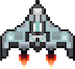
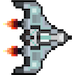
Added level display. Laser shield effect WIP

diff --git a/src/main/java/edu/uchicago/gerber/_08final/mvc/view/GamePanel.java b/src/main/java/edu/uchicago/gerber/_08final/mvc/view/GamePanel.java
@@ -86,26 +86,22 @@ public class GamePanel extends Panel {
 			grpOff.drawString(strDisplay,
 					(Game.DIM.width - fmt.stringWidth(strDisplay)) / 2, Game.DIM.height / 4);
 		}
-		
+
 		//playing and not paused!
 		else {
-
 			iterateMovables(grpOff,
 				CommandCenter.getInstance().getMovDebris(),
 				CommandCenter.getInstance().getMovFloaters(),
 				CommandCenter.getInstance().getMovFoes(),
 				CommandCenter.getInstance().getMovFriends());
 
-
+			drawLevel(grpOff);
 			drawNumberShipsLeft(grpOff);
-
-
 		}
 
 		//draw the double-Buffered Image to the graphics context of the panel
 		g.drawImage(imgOff, 0, 0, this);
 	} 
-
 
 	
 	//for each movable array, process it.
@@ -120,8 +116,14 @@ public class GamePanel extends Panel {
 		Arrays.stream(arrayOfListMovables)
 				.flatMap(Collection::stream)
 				.forEach(m -> moveDraw.accept(g, m));
+	}
 
-		
+
+	private void drawLevel(Graphics g) {
+		g.setColor(Color.white);
+		g.setFont(fnt);
+		g.drawString("LEVEL :  " + CommandCenter.getInstance().getLevel(),
+				fontWidth, Game.DIM.height - 40);
 	}
 
 
@@ -150,9 +152,6 @@ public class GamePanel extends Panel {
 							.toArray(),
 
 					falcon.getCartesians().length);
-
-
-
 	}
 	
 	private void initView() {

diff --git a/src/main/java/edu/uchicago/gerber/_08final/mvc/model/CommandCenter.java b/src/main/java/edu/uchicago/gerber/_08final/mvc/model/CommandCenter.java
@@ -25,6 +25,7 @@ public class CommandCenter {
 	private  boolean paused;
 
 	private BufferedImage ship;
+	private BufferedImage shield;
 	private BufferedImage explosion1;
 	private BufferedImage explosion2;
 	private BufferedImage explosion3;
@@ -55,17 +56,18 @@ public class CommandCenter {
 	}
 
 
-	public  void initGame(){
+	public void initGame(){
+		loadGraphics();
+
 		setLevel(1);
 		setScore(0);
 		setNumFalcons(4);
 		spawnFalcon();
-
-		loadGraphics();
 	}
 
 	private void loadGraphics() {
 		ship = loadGraphic("ship.png");
+		shield = loadGraphic("shield.png");
 
 		asteroids0 = new ArrayList<>();
 		asteroids0.add(loadGraphic("asteroid1_0.png"));
@@ -109,6 +111,9 @@ public class CommandCenter {
 
 	public BufferedImage getFalconImg(){
 		return ship;
+	}
+	public BufferedImage getShieldImg(){
+		return shield;
 	}
 
 	public BufferedImage getAsteroid(int asteroidNum, int size) {

diff --git a/src/main/java/edu/uchicago/gerber/_08final/mvc/model/Falcon.java b/src/main/java/edu/uchicago/gerber/_08final/mvc/model/Falcon.java
@@ -156,9 +156,7 @@ public class Falcon extends Sprite {
 		turningLeft = false;
 	}
 
-	public void thrustOn() {
-		thrusting = true;
-	}
+	public void thrustOn() { thrusting = true; }
 
 	public void thrustOff() {
 		thrusting = false;
@@ -172,8 +170,13 @@ public class Falcon extends Sprite {
 
 	@Override
 	public void draw(Graphics g) {
-//		BufferedImage img = CommandCenter.getInstance().getFalconImg();
-//		drawImage(img, g);
+		BufferedImage img = CommandCenter.getInstance().getFalconImg();
+		drawImage(img, g);
+
+		if (isProtected()) {
+			BufferedImage imgShield = CommandCenter.getInstance().getShieldImg();
+			drawImage(imgShield, g);
+		}
 
 		Color colShip;
 		if (getFade() == 255) {
@@ -236,7 +239,7 @@ public class Falcon extends Sprite {
 
 		} //end if flame
 
-		draw(g,colShip);
+//		draw(g,colShip);
 
 	} //end draw()
 

diff --git a/src/main/java/edu/uchicago/gerber/_08final/mvc/controller/Game.java b/src/main/java/edu/uchicago/gerber/_08final/mvc/controller/Game.java
@@ -20,7 +20,7 @@ public class Game implements Runnable, KeyListener {
 	// FIELDS
 	// ===============================================
 
-	public static final Dimension DIM = new Dimension(1100, 900); //the dimension of the game.
+	public static final Dimension DIM = new Dimension(1100, 700); //the dimension of the game.
 	private GamePanel gmpPanel;
 	//this is used throughout many classes.
 	public static Random R = new Random();

diff --git a/src/main/java/edu/uchicago/gerber/_08final/mvc/model/NewShipFloater.java b/src/main/java/edu/uchicago/gerber/_08final/mvc/model/NewShipFloater.java
@@ -24,7 +24,7 @@ public class NewShipFloater extends Sprite {
 		//set random DeltaX
 		setDeltaX(somePosNegValue(10));
 
-		//set rnadom DeltaY
+		//set random DeltaY
 		setDeltaY(somePosNegValue(10));
 		
 		//set random spin
